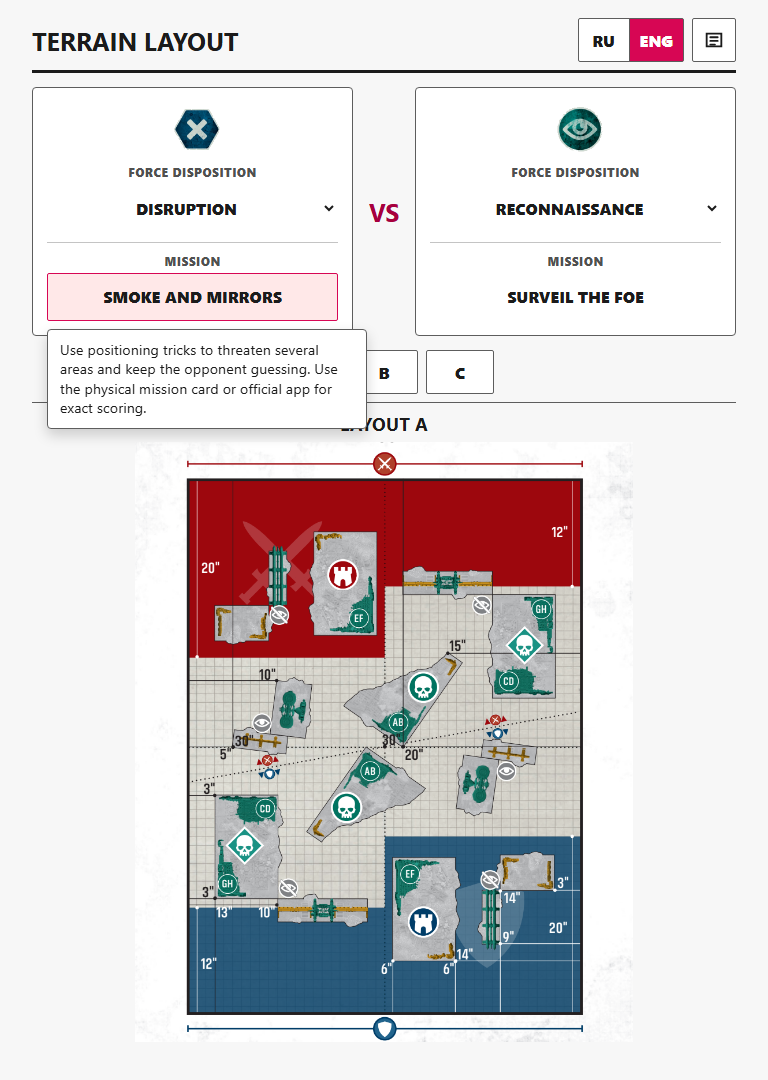
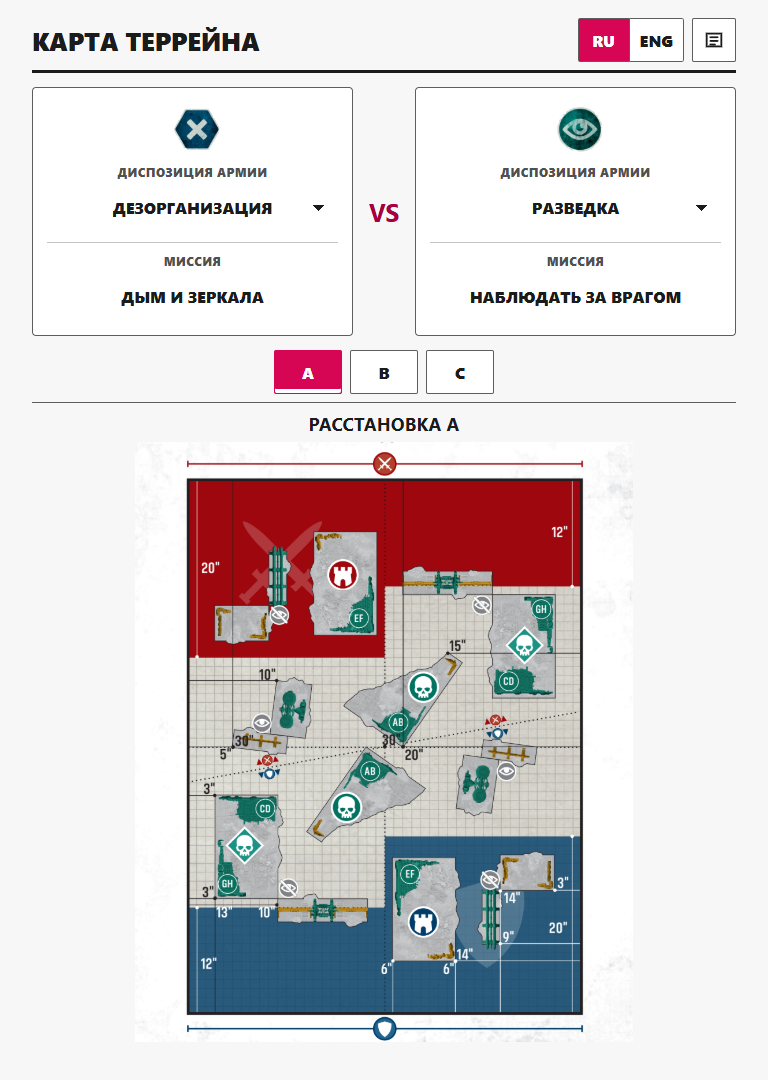
docs: refresh README for v0.2.2
Refs #6

diff --git a/test/ui.test.js b/test/ui.test.js
@@ -70,9 +70,11 @@ test('provides the compact bilingual terrain sheet UI', () => {
   assert.match(js, /popover\.style\.top\s*=\s*`\$\{rect\.bottom \+ 8\}px`/);
 });
 
-test('publishes four application screenshots in the README', () => {
+test('publishes six current application screenshots in the README', () => {
   const screenshots = [
     'disruption-vs-reconnaissance-layout-a.png',
+    'terrain-layouts-rules.png',
+    'layouts-key.png',
     'take-and-hold-vs-purge-the-foe-layout-b.png',
     'priority-assets-vs-disruption-layout-c.png',
     'reconnaissance-vs-priority-assets-layout-a.png',

diff --git a/README.md b/README.md
@@ -1,14 +1,33 @@
 # WH40K Terrain Layout
 
-Offline Windows table companion for choosing the official Warhammer 40,000 terrain map from two Force Dispositions. v0.2 uses a compact Tauri shell around the same plain HTML/CSS/JavaScript app.
+Offline Windows desktop companion for finding the official Warhammer 40,000 terrain map for a match. Choose both players' Force Dispositions and layout A, B, or C; the app shows the corresponding terrain placement diagram, assigned missions, and concise mission summaries.
+
+**Latest version:** [v0.2.2](https://github.com/okami69/WH40K-Terrain-Layout/releases/tag/v0.2.2)
+
+Everything needed at the table is bundled with the application, so it works without an internet connection after installation. The interface supports Russian and English, includes the official Layouts Key and Terrain Layouts rules, and can enlarge any map for closer inspection.
+
+## Features
+
+- Resolves the terrain map from two Force Dispositions and layout A, B, or C.
+- Shows the mission assigned to each player with a short RU/ENG objective summary.
+- Includes the official Terrain Layouts rules, recommended terrain footprints, and Layouts Key from Event Companion v1.1.
+- Opens each terrain map in a full-size viewer.
+- Remembers the selected language and follows the OS language on first launch.
+- Runs offline in a compact Windows desktop window.
 
 ## Screenshots
 
-| Disruption vs Reconnaissance, Layout A with mission summary | Take and Hold vs Purge the Foe, Layout B |
+| Main selector (RU) | Terrain Layouts rules |
 | --- | --- |
-| ![Disruption versus Reconnaissance on Layout A with the left mission summary open](docs/screenshots/disruption-vs-reconnaissance-layout-a.png) | ![Take and Hold versus Purge the Foe on Layout B](docs/screenshots/take-and-hold-vs-purge-the-foe-layout-b.png) |
-| Priority Assets vs Disruption, Layout C with mission summary | Reconnaissance vs Priority Assets, Layout A |
-| ![Priority Assets versus Disruption on Layout C with the right mission summary open](docs/screenshots/priority-assets-vs-disruption-layout-c.png) | ![Reconnaissance versus Priority Assets on Layout A](docs/screenshots/reconnaissance-vs-priority-assets-layout-a.png) |
+| ![Russian main selector with Disruption versus Reconnaissance on Layout A](docs/screenshots/disruption-vs-reconnaissance-layout-a.png) | ![Terrain Layouts rules dialog](docs/screenshots/terrain-layouts-rules.png) |
+| Layouts Key | Mission summary |
+| ![Official Layouts Key dialog](docs/screenshots/layouts-key.png) | ![Russian mission summary for Take and Hold versus Purge the Foe on Layout B](docs/screenshots/take-and-hold-vs-purge-the-foe-layout-b.png) |
+| Another matchup and layout (RU) | English interface |
+| ![Russian Priority Assets versus Disruption matchup on Layout C](docs/screenshots/priority-assets-vs-disruption-layout-c.png) | ![English Reconnaissance versus Priority Assets matchup on Layout A](docs/screenshots/reconnaissance-vs-priority-assets-layout-a.png) |
+
+## Download
+
+Download the current Windows x64 NSIS installer from the [v0.2.2 release](https://github.com/okami69/WH40K-Terrain-Layout/releases/tag/v0.2.2). The application uses the Windows WebView2 Runtime; the installer downloads it only if it is not already present.
 
 ## Use
 
@@ -17,7 +36,11 @@ Offline Windows table companion for choosing the official Warhammer 40,000 terra
 3. Hover, focus, click, or tap a mission name for a concise RU/ENG objective summary.
 4. Use the key icon for the official layouts key, or click the map for the enlarged map viewer.
 
-The UI switches between RU and ENG. First launch follows the OS language when it starts with `ru`; explicit RU/ENG clicks are saved locally. Official map/key images remain English because they are packaged from Event Companion v1.1.
+The UI switches between RU and ENG. First launch follows the OS language when it starts with `ru`; explicit RU/ENG clicks are saved locally. Official map, key, and rules images remain English because they are packaged from Event Companion v1.1.
+
+## How it is built
+
+The desktop application is a minimal [Tauri 2](https://tauri.app/) shell around a dependency-free frontend written in plain HTML, CSS, and JavaScript. All maps, disposition icons, rules, translations, and matchup data are packaged locally as static assets; no server or account is required at runtime.
 
 ## Develop and build
 
@@ -40,9 +63,7 @@ The Tauri NSIS installer is written under:
 
 `src-tauri/target/release/bundle/nsis/`
 
-Current verification note: `npm.cmd test`, `cargo check --manifest-path src-tauri/Cargo.toml`, `npm.cmd run dist`, and the final Playwright smoke pass completed on Windows with the MSVC toolchain. The Playwright smoke was run from a temporary external runner against the packaged `app/` files and checked the 768 x 1080 reference viewport, laptop-scale viewport, RU/ENG persistence, mission popovers, and key/map dialogs.
-
-The v0.2.1 NSIS installer is 20.77 MiB and installs 22.81 MiB under `%LOCALAPPDATA%\Programs\WH40K Terrain Layout`.
+Current v0.2.2 verification covers the Node test suite, Tauri production build, NSIS installer smoke check, and Playwright checks at the 768 x 1080 reference viewport and a laptop-scale viewport.
 
 ## Re-extract assets
 
@@ -57,7 +78,7 @@ Then run:
 & 'C:\Users\okami\.cache\codex-runtimes\codex-primary-runtime\dependencies\python\python.exe' tools/extract_layouts.py
 ```
 
-The extractor writes 45 lossless WebP maps, five disposition icons, and `app/assets/key/layouts-key.webp`. The older June Event Companion is not used.
+The extractor writes 45 lossless WebP maps, five disposition icons, `app/assets/key/layouts-key.webp`, and `app/assets/key/terrain-rules.webp`. The older June Event Companion is not used.
 
 ## Project structure
 
@@ -67,4 +88,4 @@ The extractor writes 45 lossless WebP maps, five disposition icons, and `app/ass
 - `tools/` - optional PDF extraction script
 - `docs/superpowers/` - approved design and implementation records
 
-See the [v0.2 design specification](docs/superpowers/specs/2026-08-08-tauri-shell-and-layout-key-design.md), [v0.2 implementation plan](docs/superpowers/plans/2026-08-08-tauri-shell-and-layout-key-implementation.md), and [GitHub issue #2](https://github.com/okami69/WH40K-Terrain-Layout/issues/2).
+See the [v0.2 design specification](docs/superpowers/specs/2026-08-08-tauri-shell-and-layout-key-design.md), [v0.2 implementation plan](docs/superpowers/plans/2026-08-08-tauri-shell-and-layout-key-implementation.md), and [GitHub issue #1](https://github.com/okami69/WH40K-Terrain-Layout/issues/1).
